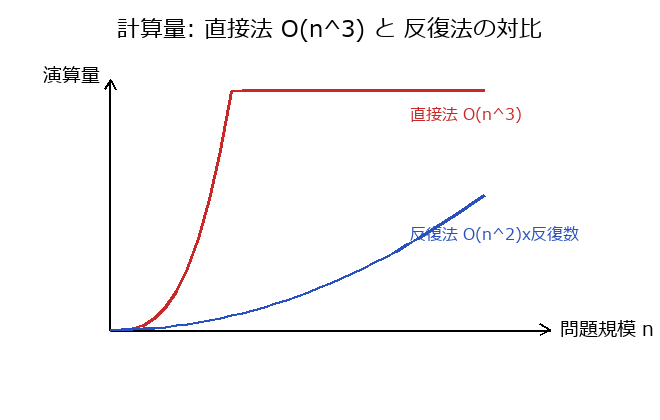
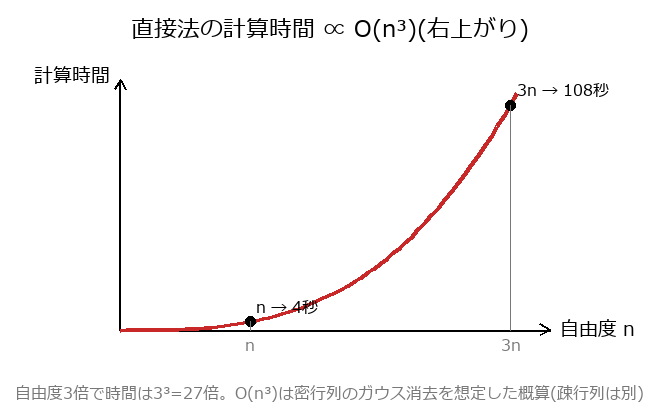
固体1級 公開前レビュー修正 第1〜11章（本文＋図）
複数選択肢が誤りになり得た設問を一意化、断定表現を条件付きに、
図と設問・式の不整合を修正。答えは全問維持、check_quality 全PASS。

本文(OTA): 2-25/2-26/3-6/3-8/3-9/3-11/3-12/4-5/4-8/4-9/4-11/4-16/4-18/
5-1/5-3/5-12/5-17/5-19/5-25/6-8/6-17/6-18/7-8/7-10/7-11/
8-7/8-10/9-15/9-21/10-4/10-9/11-15/11-24
 ・一意化: 5-19(ΔKeff)/7-10(定常物性・収束条件)/9-21(サブスペース収束速度)/
   11-15(Q16,Q26)/11-24(比較量=反力/変位に明確化)
 ・説明誤り: 10-9(等方硬化でもループは生じ得る)/6-17(古典減衰に限定)
 ・6-18を6-19と整合(擬似速度 S_PV=ωS_D)

図(OTA・生成元復元): s1e1GLcompute(1-10 設問のFに一致)/s1e1Conjugate(1-17 σ:D現体積明示)/
s1e9IterMatrix(9-3 条件数160)/s1e9Complexity(9-15 右上がりO(n³))/s1e11Laminate(11-17 一枚板)
 ・生成元 figs_s1_ch1_fix.py / figs_s1_ch9_fix.py 新規、figs_s1_ch11.py 修正

注: 6-4/6-5 はPDF改ページのみ(本文正常)。図はfigureStore=OTA優先で配信反映。

diff --git a/tools/figs_s1_ch9_fix.py b/tools/figs_s1_ch9_fix.py
@@ -1,0 +1,65 @@
+# -*- coding: utf-8 -*-
+"""固体1級 第9章 レビュー修正の図(回答後 helpful)を再生成。生成元が消失していた2図。
+- s1e9IterMatrix(9-3): 条件数の設問に合わせ、固有値 {-80,0.5,4,20} の絶対値を並べ
+  |λ|max=80 / |λ|min=0.5 = 160 を示す(旧図は無関係な反復収束の模式図だった)。
+- s1e9Complexity(9-15): 直接法 O(n^3) に整合する右上がりの曲線(旧図は途中で水平になり式と矛盾)。
+  O(n^3)は密行列消去の概算である旨も添える。"""
+import sys
+sys.path.insert(0, r"c:\Users\jwpsa\Documents\desktop\claude\CAE\tools")
+from figlib import *
+
+
+def f_cond_number():         # 9-3 回答後
+    im, d = new(); title(d, "条件数 cond(K) = |λ|max / |λ|min")
+    lam = ["-80", "0.5", "4", "20"]
+    ab = ["80", "0.5", "4", "20"]
+    x0 = 120; cw = 95; y0 = 110; rh = 46
+    ncol = len(lam) + 1
+    # 枠線
+    for i in range(3):
+        d.line((x0, y0 + i * rh, x0 + ncol * cw, y0 + i * rh), fill=BLACK, width=2)
+    for j in range(ncol + 1):
+        d.line((x0 + j * cw, y0, x0 + j * cw, y0 + 2 * rh), fill=BLACK, width=2)
+    ctext(d, x0 + cw / 2, y0 + rh / 2, "λ", FS)
+    ctext(d, x0 + cw / 2, y0 + rh + rh / 2, "|λ|", FS)
+    for j, (l, a) in enumerate(zip(lam, ab), start=1):
+        ctext(d, x0 + j * cw + cw / 2, y0 + rh / 2, l, FS)
+        ctext(d, x0 + j * cw + cw / 2, y0 + rh + rh / 2, a, FS)
+    # 最大(80=1列目)を赤、最小(0.5=2列目)を青で強調
+    d.rectangle((x0 + 1 * cw, y0 + rh, x0 + 2 * cw, y0 + 2 * rh), outline=RED, width=4)
+    d.rectangle((x0 + 2 * cw, y0 + rh, x0 + 3 * cw, y0 + 2 * rh), outline=BLUE, width=4)
+    ctext(d, x0 + 1 * cw + cw / 2, y0 + 2 * rh + 18, "最大", FT, RED)
+    ctext(d, x0 + 2 * cw + cw / 2, y0 + 2 * rh + 18, "最小", FT, BLUE)
+    ctext(d, W / 2, 268, "|λ|max = 80,   |λ|min = 0.5", FS)
+    ctext(d, W / 2, 305, "cond(K) = 80 / 0.5 = 160", F, RED)
+    note(d, "条件数は必ず絶対値で評価する。負の -80 が絶対値最大、0.5 が絶対値最小")
+    save(im, "s1e9IterMatrix")
+
+
+def f_complexity():          # 9-15 回答後
+    im, d = new(); title(d, "直接法の計算時間 ∝ O(n³)(右上がり)")
+    ox, oy = 120, 330; xlen, ylen = 430, 250
+    axes(d, ox, oy, xlen, ylen, "自由度 n", "計算時間")
+    tmax = 3.3; ymax = 120.0
+    pts = []
+    t = 0.0
+    while t <= 3.05:
+        yv = 4.0 * t ** 3
+        px = ox + (t / tmax) * xlen
+        py = oy - (yv / ymax) * ylen
+        pts.append((px, py)); t += 0.05
+    plot(d, ox, oy, pts, RED, 4)
+    # 代表点 (n,4s) と (3n,108s)
+    for t, sec, lab in [(1.0, 4.0, "n → 4秒"), (3.0, 108.0, "3n → 108秒")]:
+        px = ox + (t / tmax) * xlen; py = oy - (sec / ymax) * ylen
+        d.ellipse((px - 5, py - 5, px + 5, py + 5), fill=BLACK)
+        d.line((px, oy, px, py), fill=GRAY, width=1)
+        ctext(d, px + 6, py - 14, lab, FT, BLACK, "lm")
+        ctext(d, px, oy + 16, "n" if t == 1.0 else "3n", FT, GRAY)
+    note(d, "自由度3倍で時間は3³=27倍。O(n³)は密行列のガウス消去を想定した概算(疎行列は別)")
+    save(im, "s1e9Complexity")
+
+
+if __name__ == "__main__":
+    f_cond_number()
+    f_complexity()

diff --git a/tools/figs_s1_ch1_fix.py b/tools/figs_s1_ch1_fix.py
@@ -1,0 +1,54 @@
+# -*- coding: utf-8 -*-
+"""固体1級 第1章 レビュー修正の図(回答後 helpful)を再生成。
+生成元が消失していた s1e1GLcompute / s1e1Conjugate を作り直す。
+- s1e1GLcompute(1-10): 設問の変形勾配 F=[[1.2,0.1],[0,1.0]] に一致した計算フロー
+  (旧図は別問題の単純せん断 F12=0.5 を描いていた誤り)。
+- s1e1Conjugate(1-17): 仕事共役表。σ:D は現体積当たり、基準体積当たりは Jσ:D=τ:D と明示
+  (旧図は基準体積の枠内に σ コーシー↔D を並べていた不整合)。
+[[cae-figure-before-after-rule]]。回答前(Setup)図はいずれも正しいので触らない。"""
+import sys
+sys.path.insert(0, r"c:\Users\jwpsa\Documents\desktop\claude\CAE\tools")
+from figlib import *
+
+
+def f_gl_compute_post():     # 1-10 回答後
+    im, d = new(); title(d, "計算フロー  F → C=F^T F → E=1/2(C-I)")
+    y = 175; cell = 58; yc = y + cell
+    matrix_grid(d, 52,  y, [["1.2", "0.1"], ["0", "1.0"]],       cell=cell, fnt=FT)
+    ctext(d, 52 + cell,  y - 24, "F", FS)
+    matrix_grid(d, 282, y, [["1.44", "0.12"], ["0.12", "1.01"]], cell=cell, fnt=FT)
+    ctext(d, 282 + cell, y - 24, "C", FS)
+    matrix_grid(d, 512, y, [["0.22", "0.06"], ["0.06", "0.005"]], cell=cell, fnt=FT)
+    ctext(d, 512 + cell, y - 24, "E", FS)
+    arrow(d, 172, yc, 276, yc, BLACK, 3, 11); ctext(d, 224, yc - 16, "F^T F", FT)
+    arrow(d, 402, yc, 506, yc, BLACK, 3, 11); ctext(d, 454, yc - 16, "1/2(C-I)", FT)
+    note(d, "例: F=[[1.2,0.1],[0,1.0]]。C=F^T F、E=1/2(C-I)。よって E₁₁=0.22, E₁₂=0.06")
+    save(im, "s1e1GLcompute")
+
+
+def f_conjugate():           # 1-17 回答後
+    im, d = new(); title(d, "仕事共役の応力・ひずみ速度ペア")
+    ctext(d, W / 2, 66, "基準体積当たり  W = τ:D = S:(dE/dt) = Π:(dF/dt)   (τ = Jσ)", FS)
+    x0, xm, x1 = 55, 330, 605
+    top = 96; rh = 40; nrow = 5
+    for i in range(nrow + 1):
+        d.line((x0, top + i * rh, x1, top + i * rh), fill=BLACK, width=2)
+    for xx in (x0, xm, x1):
+        d.line((xx, top, xx, top + nrow * rh), fill=BLACK, width=2)
+
+    def row(i, a, b, col=BLACK):
+        yy = top + i * rh + rh / 2
+        ctext(d, (x0 + xm) / 2, yy, a, FS, col)
+        ctext(d, (xm + x1) / 2, yy, b, FS, col)
+    row(0, "応力", "共役なひずみ速度")
+    row(1, "τ  キルヒホッフ (=Jσ)", "D  ストレッチング")
+    row(2, "S  第2PK", "dE/dt  (グリーン)")
+    row(3, "Π  第1PK", "dF/dt  (変形勾配)")
+    row(4, "σ  コーシー ※現体積", "D （σ:D は現体積当たり）", GRAY)
+    note(d, "σ:D は現体積当たり。基準体積当たりにするには Jσ:D = τ:D とする(表の τ:D 行)")
+    save(im, "s1e1Conjugate")
+
+
+if __name__ == "__main__":
+    f_gl_compute_post()
+    f_conjugate()

diff --git a/tools/figs_s1_ch11.py b/tools/figs_s1_ch11.py
@@ -341,29 +341,26 @@ def f_OffAxis():
 
 # ---------------------------------------------------------------- 11-17
 def f_Laminate():
-    im, d = new(); title(d, "積層板の板厚方向 z 座標(ABD剛性)")
+    im, d = new(); title(d, "均質一枚板の板厚方向 z 座標(ABD剛性)")
     xl, xr = 150, 360
-    ys = [130, 170, 210, 250, 290]   # 界面(4層)
-    for k in range(len(ys)-1):
-        fill = [FILL1, FILL2, FILL3, FILL2][k]
-        d.rectangle((xl, ys[k], xr, ys[k+1]), outline=BLACK, width=2, fill=fill)
-    zmid = (ys[0]+ys[-1])/2
+    ytop, ybot = 140, 290             # 一枚板の上下面(積層でなく単層)
+    d.rectangle((xl, ytop, xr, ybot), outline=BLACK, width=3, fill=FILL1)
+    zmid = (ytop+ybot)/2
+    ctext(d, (xl+xr)/2, ytop+26, "均質材 Q₁₁", FS, GRAY)
     # z軸
     zx = 400
-    arrow(d, zx, ys[-1]+30, zx, ys[0]-30, BLACK, 2, 11); ctext(d, zx, ys[0]-40, "z", FS)
+    arrow(d, zx, ybot+30, zx, ytop-30, BLACK, 2, 11); ctext(d, zx, ytop-40, "z", FS)
     d.line((xl, zmid, 470, zmid), fill=RED, width=2)   # 中央面 z=0
-    ctext(d, 435, zmid-13, "中央面 z=0", FT, RED)
-    labs = ["z0", "z1", "z2", "z3", "z4"]
-    for k, y in enumerate(ys):
+    ctext(d, (xl+xr)/2, zmid-14, "z=0(中央面)", FT, RED)
+    for y, lab in [(ytop, "+h/2"), (ybot, "-h/2")]:    # 上下面のみ
         d.line((zx-6, y, zx+6, y), fill=BLACK, width=2)
-        ctext(d, zx+24, y, labs[k], FT, GRAY, "lm")
+        ctext(d, zx+24, y, lab, FT, GRAY, "lm")
     # N と M
     arrow(d, xl-45, zmid, xl, zmid, GREEN, 4, 13); ctext(d, xl-52, zmid, "N", F, GREEN, "rm")
     d.arc((500, 190, 590, 280), 40, 320, fill=BLUE, width=4)
     arrow(d, 585, 205, 578, 190, BLUE, 3, 10)
     ctext(d, 545, 300, "M(曲げ)", FT, BLUE)
-    ctext(d, 545, 150, "面内力 N", FT, GREEN)
-    note(d, "各層剛性を z で積分 → 面内A・カップリングB・曲げD (対称積層で B=0)")
+    note(d, "一枚板を z=-h/2〜+h/2 で積分 → A=Q₁₁h, B=0(中央面対称), D=Q₁₁h³/12")
     save(im, "s1e11Laminate")
 
 # ---------------------------------------------------------------- 11-18
